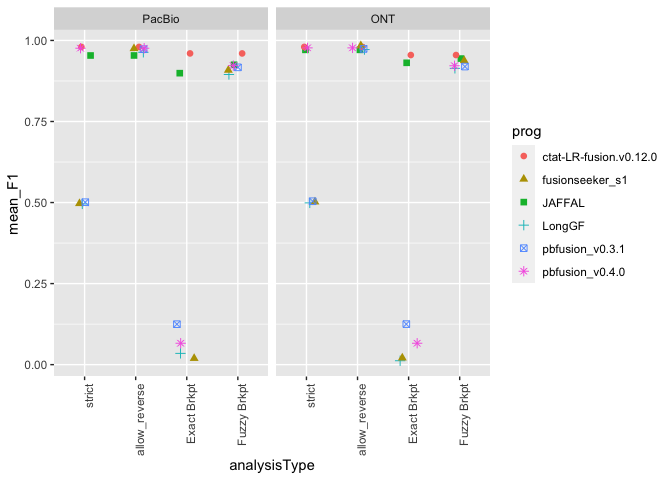
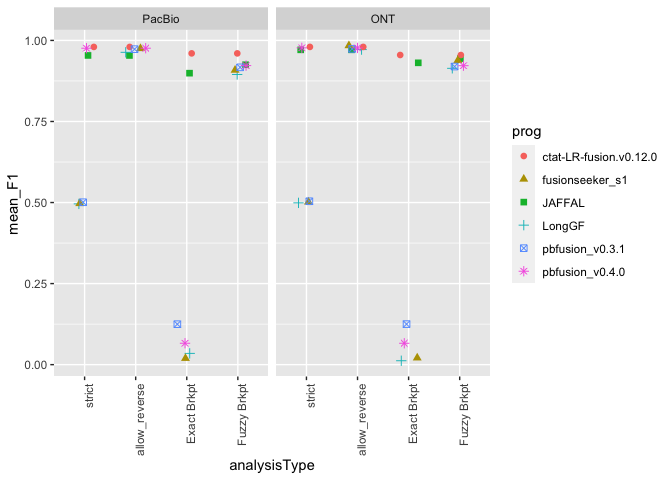
updates in prep for draft manuscript

diff --git a/README.md b/README.md
@@ -1,1 +1,49 @@
 # CTAT-LRF-Paper
+
+Analyses and figures generated for the manuscript "CTAT-LR-fusion: accurate fusion transcript identification from long and short read isoform sequencing at bulk or single cell resolution" by "Qian Qin, Victoria Popic, Houlin Yu, Emily White, Akanksha Khobragade, Asa Shin, Arthur Dondi, Niko Beerenwinkel, Aziz Al’Khafaji, and Brian J. Haas"
+
+
+This repo focuses on analyses and figure generation for the manuscript.  For computing benchmarking results that were analyzed here, please see the separate github repo: https://github.com/fusiontranscripts/LR-FusionBenchmarking
+    
+
+## Fusion Transcript Detection Accuracy Using Simulated Long Reads
+
+Benchmarking using the JAFFAL simulated fusion reads: 
+    
+- 1.Benchmark_Simulated_Fusions/1a.jaffalpaper_simulated_reads/analyze_jaffal_simdata_accuracy.Rmd (Figure 2b)
+
+Benchmarking using pbsim3 simulated reads, focused on breakpoint detection accuracy:
+    
+- 1.Benchmark_Simulated_Fusions/1b.pbsim3_simulated_reads/simulated_reads_summary.Rmd (Figure 2c)
+
+
+## Long Read Fusion Isoform Detection with a Reference Fusion Control RNA Sample
+
+Fusions found by ctat-LR-fusion for long reads or FusionInspector for short reads:
+
+- 2.SeraCareFusions/2a.CTAT_SeraCareFusion/CTAT_SeraCareFusion.Rmd (Figure 3a, Supp Figure S1)
+
+Comparison of control fusions found by various predictors for SeraCare fusion mix:
+
+- 2.SeraCareFusions/2b.SeraCareFusionBenchmarking/SeraCareFusionAnalysis.Rmd (Figure 3b)
+
+    
+## Long Read Fusion Isoform Detection from MAS-Iso-seq of Nine Cancer Cell Lines
+
+- 3.DepMap9Lines/3b.DepMap9Lines_Benchmarking/DepMap9Lines_Benchmarking.Rmd (Figure 4a,b,c, and Supplementary Figure S2a)
+
+- 3.DepMap9Lines/3a.CTAT_DepMap9Lines/CTAT_DepMap9Lines.Rmd (Figure 4d, Supplementary Figure S2b, S3, and S4)
+
+
+## Long Read Fusion Isoform Detection from Tumor Single Cell Transcriptomes
+
+Melanoma single cell analysis
+
+- 4.SingleCellFusions/4a.sc_Melanoma/M132TS_analysis.md (Figure 5a)
+
+HGSOC single cell analysis
+
+- 4.SingleCellFusions/4b.sc_HGSOC/Patient1_analysis.Rmd (Figure 6)
+
+
+

diff --git a/1.Benchmark_Simulated_Fusions/1b.pbsim3_simulated_reads/simulated_reads_summary.md b/1.Benchmark_Simulated_Fusions/1b.pbsim3_simulated_reads/simulated_reads_summary.md
@@ -77,3 +77,23 @@ combined_data %>%
 ```
 
 ![](simulated_reads_summary_files/figure-gfm/unnamed-chunk-4-1.png)<!-- -->
+
+``` r
+# mention updated pbfusion v0.4.0 as later updated for improved performance compared to earlier version.
+
+
+paperfig = combined_data %>%
+    filter(prog != "pbfusion_v0.4.0") %>%
+    mutate(analysisType = factor(analysisType, 
+                            levels=c('strict', 'allow_reverse', 'Exact Brkpt', 'Fuzzy Brkpt') )) %>%
+    mutate(seqTech = factor(seqTech, levels=c("PacBio", "ONT"))) %>%
+     ggplot() +
+     geom_jitter(aes(x=analysisType, y=mean_F1, color=prog, shape=prog), width=0.2, size=rel(2)) +
+     facet_wrap(~seqTech) +
+     theme(axis.text.x = element_text(angle = 90, hjust = 1)) 
+
+
+paperfig
+```
+
+![](simulated_reads_summary_files/figure-gfm/unnamed-chunk-5-1.png)<!-- -->

diff --git a/1.Benchmark_Simulated_Fusions/1a.jaffalpaper_simulated_reads/analyze_jaffal_simdata_accuracy.md b/1.Benchmark_Simulated_Fusions/1a.jaffalpaper_simulated_reads/analyze_jaffal_simdata_accuracy.md
@@ -56,5 +56,22 @@ p_linepoint
 ![](analyze_jaffal_simdata_accuracy_files/figure-gfm/unnamed-chunk-5-1.png)<!-- -->
 
 ``` r
+# mention the new pbfusion v0.4.0 for supp, keep rest for main fig
+
+p_linepoint = max_F1_data %>% 
+    filter(prog != "pbfusion_v0.4.0") %>% 
+    filter(analysisType %in% c('strict', 'allow_reverse')) %>%
+    ggplot() + 
+    geom_point(aes(x=divergence, y=F1, color=prog)) +
+    geom_line(aes(x=divergence, y=F1, group=prog, color=prog)) +
+    facet_grid(vars(analysisType), vars(seqtype))
+
+
+p_linepoint
+```
+
+![](analyze_jaffal_simdata_accuracy_files/figure-gfm/unnamed-chunk-6-1.png)<!-- -->
+
+``` r
 ggsave(p_linepoint, filename="jaffal_simdata_accuracy.paperfig.pdf", width=8, height=7)
 ```
